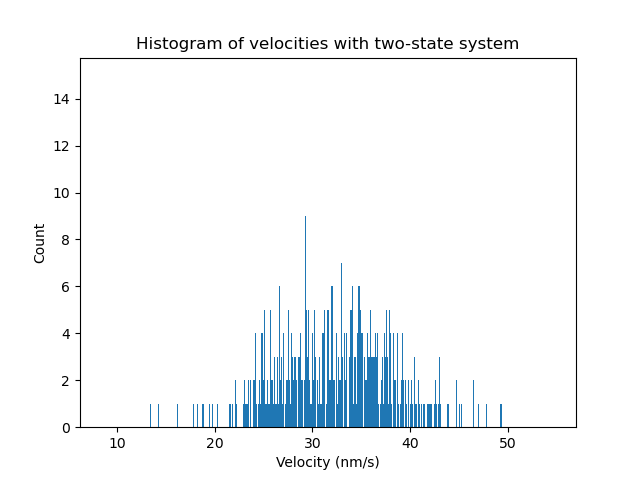
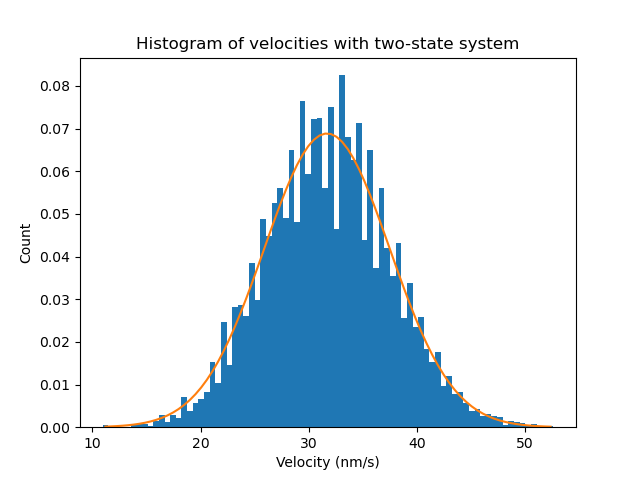
Done 10000 simulations histogram

diff --git a/brownian_ratchet.py b/brownian_ratchet.py
@@ -88,8 +88,8 @@ def gaussian(x, amp, mu, sigma):      #Gaussian function for fit
 # main
 
 np.random.seed(54)   #set seed for reproducibility
-velocities=np.zeros(100) # use 100 velocities to draw an histogram
-for i in range(100):
+velocities=np.zeros(10000) # use 100 velocities to draw an histogram
+for i in range(10000):
   velocities[i]=evolution(10000000, D) #evolve for 10^7 time steps
 
 n, bins, _ =plt.hist(velocities, bins=80, density=True) #histogram of velocities
